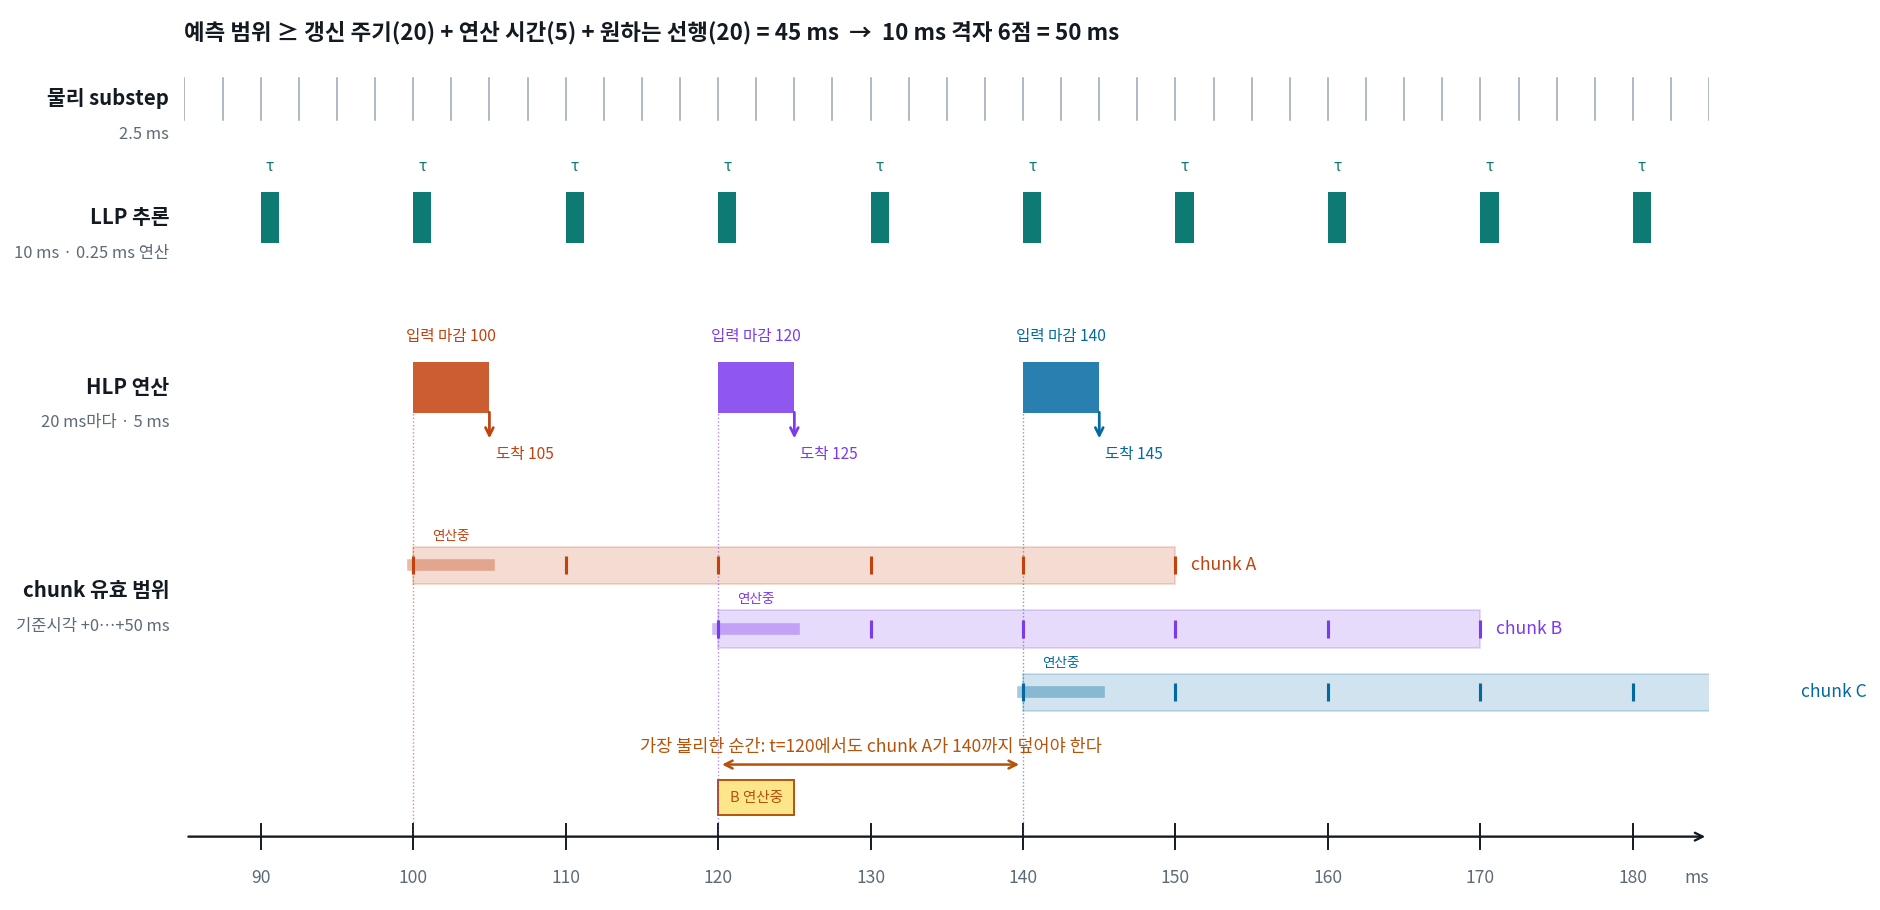
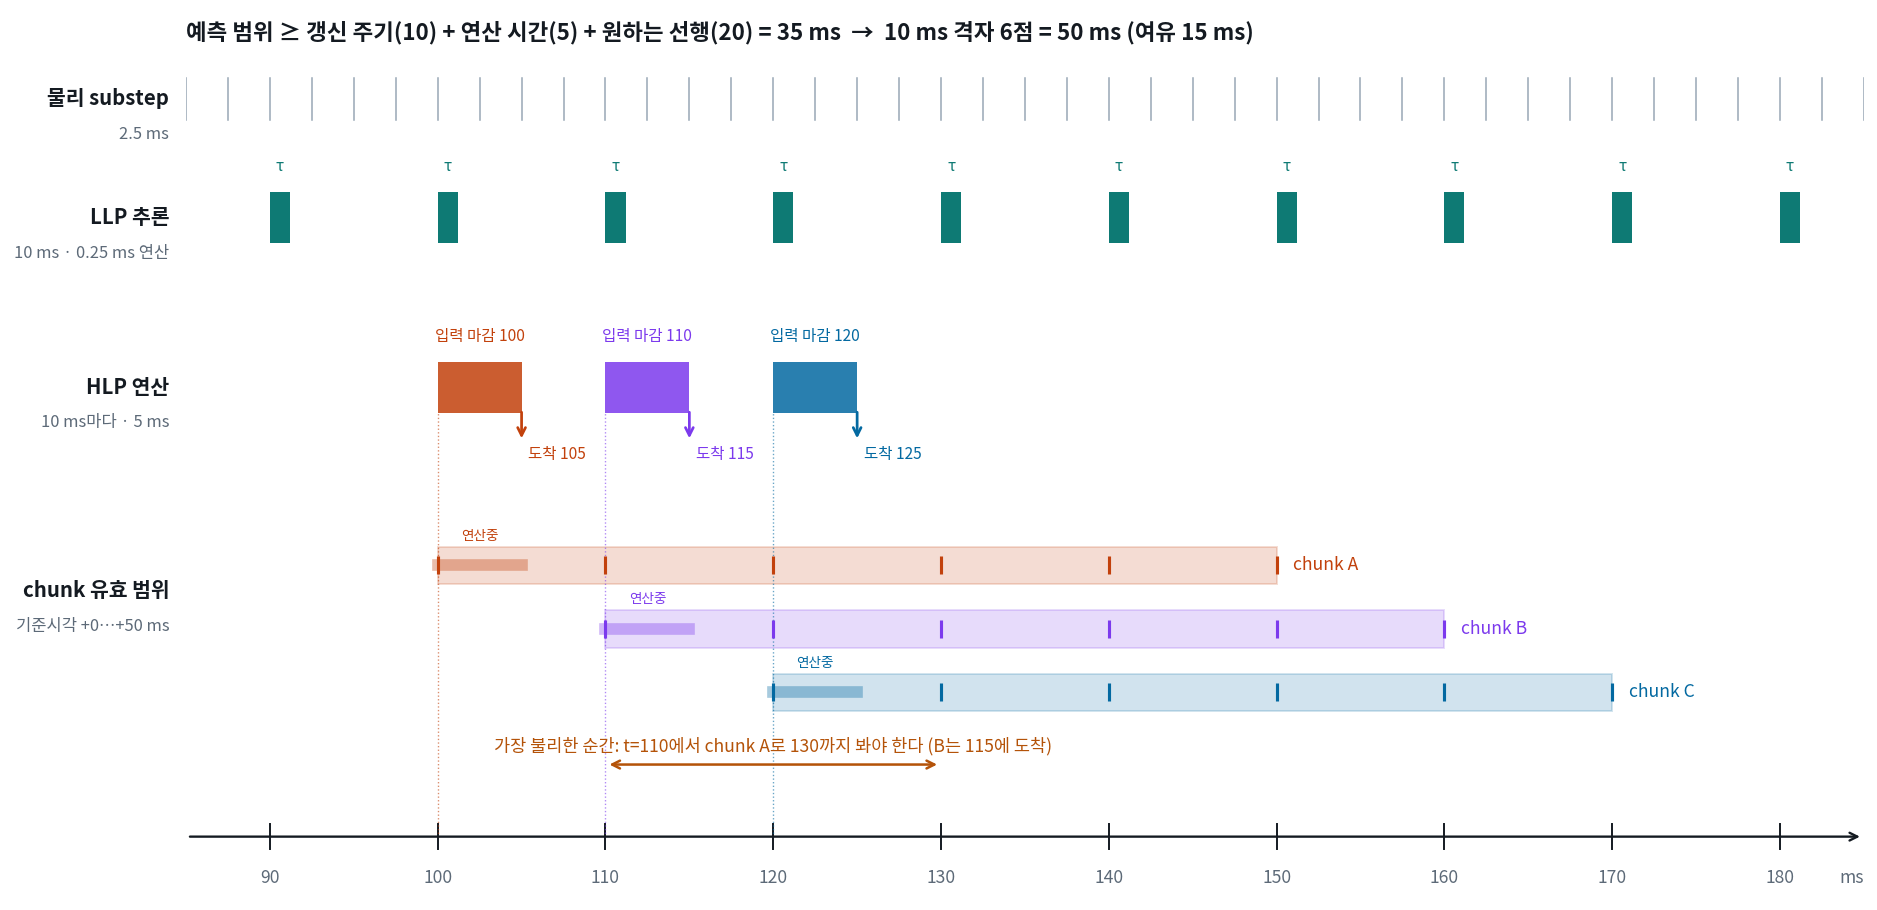
🔧: run the predictor every control step, and redraw the timing to match
With the horizon at 50 ms and one denoise step costing 4.9 ms, the predictor
fits inside a 10 ms budget, so refresh every control step instead of every
other one: the chunk in use is then 5-15 ms old instead of 5-25 ms, and the
worst moment (t=110, before the next chunk lands at 115) still has 20 ms of
lead inside the previous chunk with 15 ms to spare.

diff --git a/examples/experiments/assist_skeleton/plot_timing_diagram.py b/examples/experiments/assist_skeleton/plot_timing_diagram.py
@@ -58,8 +58,8 @@ for t in range(90, 181, 10):
     ax.text(t+0.6, 8.55, "τ", ha="center", fontsize=8, color=TEAL)
 
 # --- 3. HLP 주기 A/B ---
-lane(6.0, "HLP 연산", "20 ms마다 · 5 ms")
-for t0, col in ((100, ORANGE), (120, "#7c3aed"), (140, "#0369a1")):
+lane(6.0, "HLP 연산", "10 ms마다 · 5 ms")
+for t0, col in ((100, ORANGE), (110, "#7c3aed"), (120, "#0369a1")):
     ax.add_patch(Rectangle((t0, 5.7), 5, 0.6, facecolor=col, edgecolor="none", alpha=.85))
     ax.text(t0+2.5, 6.55, f"입력 마감 {t0}", ha="center", fontsize=8, color=col)
     ax.plot([t0, t0], [0.7, 5.7], color=col, lw=0.7, ls=":", alpha=.6)
@@ -69,7 +69,7 @@ for t0, col in ((100, ORANGE), (120, "#7c3aed"), (140, "#0369a1")):
 
 # --- 4. chunk 유효 구간 ---
 lane(3.6, "chunk 유효 범위", "기준시각 +0…+50 ms")
-for i, (t0, col, lbl) in enumerate(((100, ORANGE, "A"), (120, "#7c3aed", "B"), (140, "#0369a1", "C"))):
+for i, (t0, col, lbl) in enumerate(((100, ORANGE, "A"), (110, "#7c3aed", "B"), (120, "#0369a1", "C"))):
     y = 3.9 - i*0.75
     ax.add_patch(Rectangle((t0, y-0.22), 50, 0.44, facecolor=col, alpha=.18, edgecolor=col, lw=1))
     for k in range(6):
@@ -79,15 +79,13 @@ for i, (t0, col, lbl) in enumerate(((100, ORANGE, "A"), (120, "#7c3aed", "B"), (
     ax.text(t0+2.5, y+0.30, "연산중", fontsize=7, color=col, ha="center")
 
 # --- 5. 워스트 케이스 표시 ---
-ax.add_patch(Rectangle((120, 0.95), 5, 0.42, facecolor="#fde68a", edgecolor="#b45309", lw=1))
-ax.text(122.5, 1.16, "B 연산중", fontsize=7.5, ha="center", va="center", color="#b45309")
-ax.annotate("", xy=(140, 1.55), xytext=(120, 1.55),
+ax.annotate("", xy=(130, 1.55), xytext=(110, 1.55),
             arrowprops=dict(arrowstyle="<->", color="#b45309", lw=1.3))
-ax.text(130, 1.70, "가장 불리한 순간: t=120에서도 chunk A가 140까지 덮어야 한다",
+ax.text(120, 1.70, "가장 불리한 순간: t=110에서 chunk A로 130까지 봐야 한다 (B는 115에 도착)",
         ha="center", fontsize=9, color="#b45309")
 
 ax.text(T0, 10.1,
-        "예측 범위 ≥ 갱신 주기(20) + 연산 시간(5) + 원하는 선행(20) = 45 ms  →  10 ms 격자 6점 = 50 ms",
+        "예측 범위 ≥ 갱신 주기(10) + 연산 시간(5) + 원하는 선행(20) = 35 ms  →  10 ms 격자 6점 = 50 ms (여유 15 ms)",
         fontsize=11.5, color=INK, fontweight="bold")
 fig.tight_layout()
 out = "docs/hlp_llp_timing.png"

diff --git a/examples/experiments/assist_skeleton/llp_walk.py b/examples/experiments/assist_skeleton/llp_walk.py
@@ -76,8 +76,9 @@ def additional_experiment_arguments(parser: argparse.ArgumentParser):
                              "(150 ms 모델: 4×50 ms, 20 ms 모델: 2×10 ms)")
     parser.add_argument("--obs-future-dt", type=float, default=0.05,
                         help="미래 창 샘플 간격 [s]")
-    parser.add_argument("--chunk-refresh-steps", type=int, default=2,
-                        help="HLP 재예측 주기 (LLP step 단위; 10 ms step에서 2 = 20 ms)")
+    parser.add_argument("--chunk-refresh-steps", type=int, default=1,
+                        help="HLP 재예측 주기 (LLP step 단위; 10 ms step에서 1 = 10 ms). "
+                             "denoise 1에서 실측 4.9 ms라 10 ms 예산에 들어간다")
     parser.add_argument("--assist-limit", type=float, default=ASSIST_TORQUE_LIMIT,
                         help="assist 토크 한계 [N·m] (tanh 스케일 = clamp)")
     parser.add_argument("--human-power-weight", type=float, default=-0.003)
